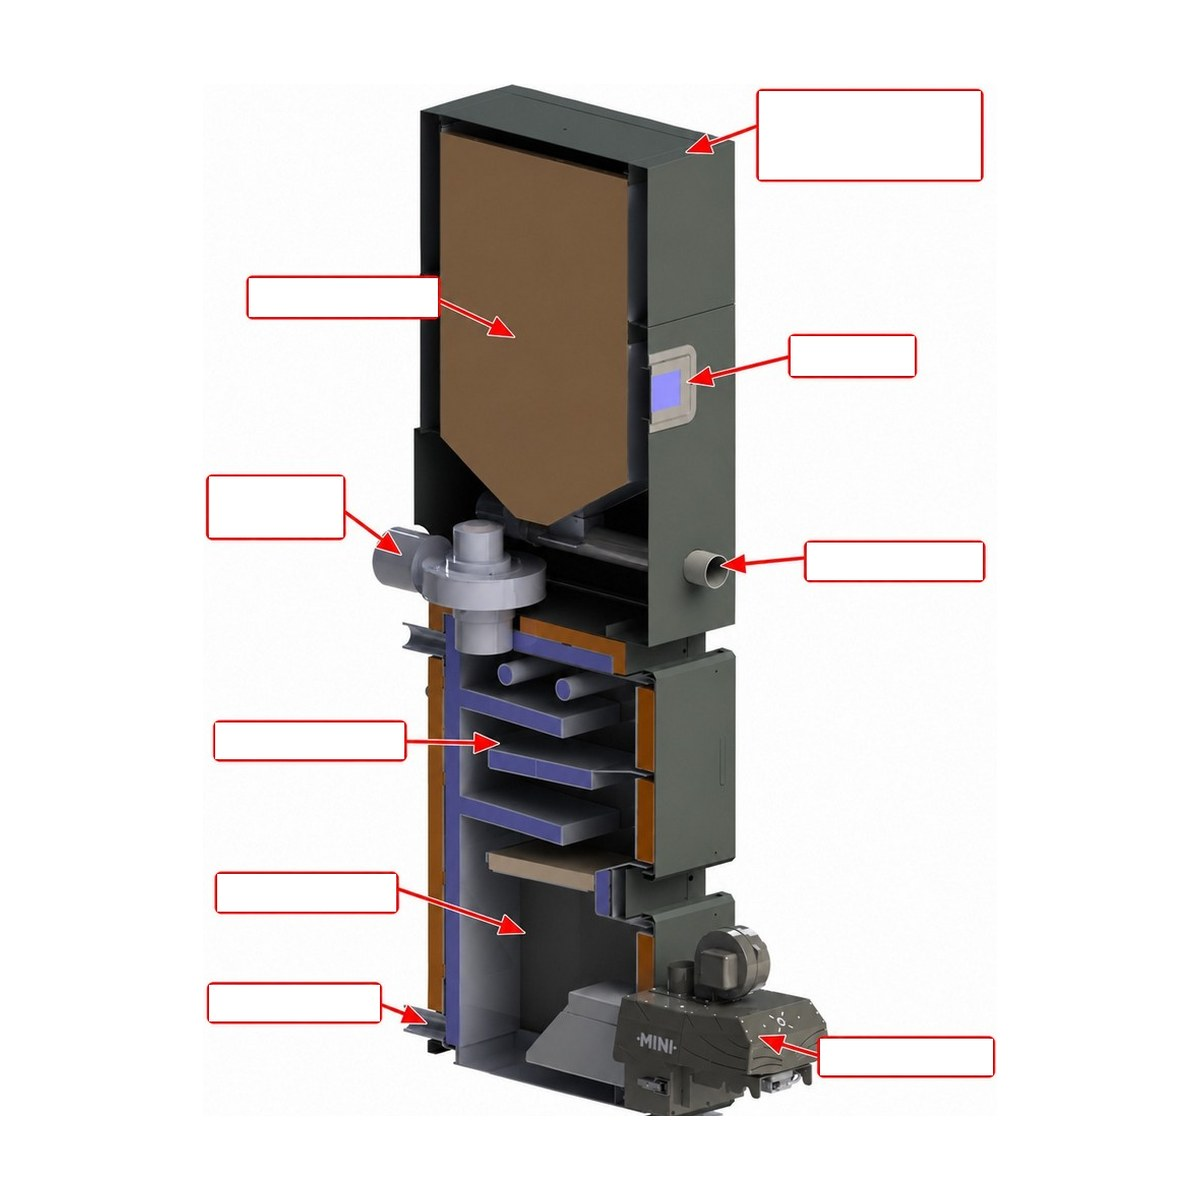
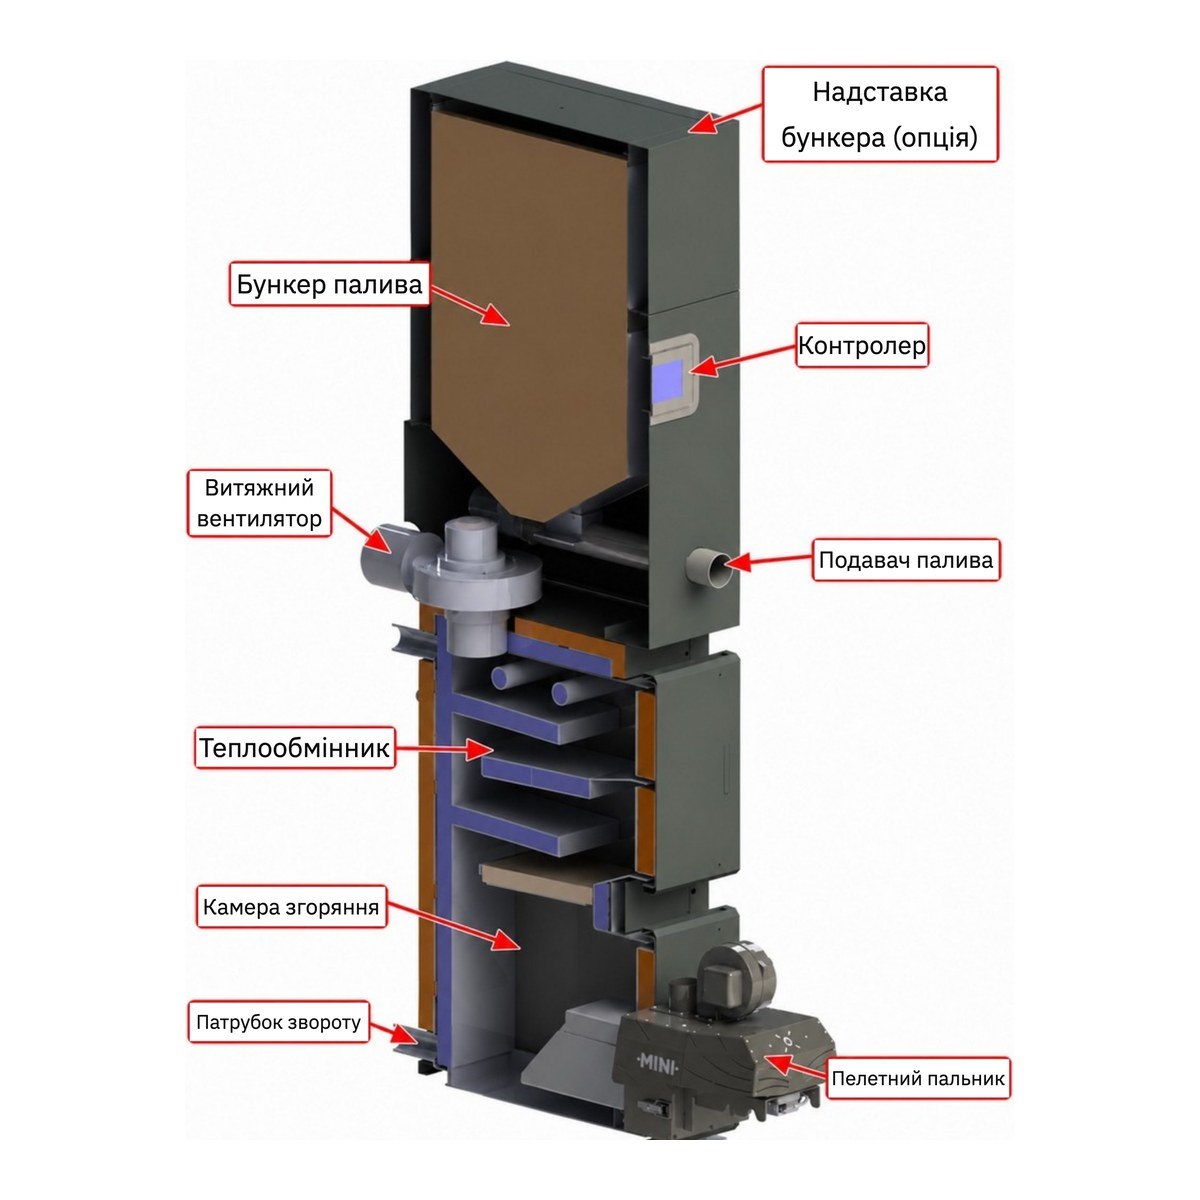
Розріз котла в галереї: підписи виносок повернуто
У конвеєрі інструкції растри в src/assets лежать із ВИБІЛЕНИМИ рамками —
підписи друкуються поверх уже в src/fig/*.html. У галерею картки я взяв растр,
тож на сайті рисунок стояв із порожніми квадратиками, хоча в самій інструкції
він правильний (перевірив стор. 17). Перезняв із src/fig у шрифті інструкції.

Інші два рисунки галереї (панель керування, комплект поставки) мають номерні
підписи прямо в растрі — вони не постраждали.

Claude-Session: https://claude.ai/code/session_01CFkCKbFECgnEVRLjVYvqyh

Changed region(s): [[0.1542, 0.0308, 0.8633, 0.9558]]

diff --git a/CHANGELOG.md b/CHANGELOG.md
@@ -39,6 +39,14 @@
 - Додано розділ «Пелетні котли» в `SECTIONS`/`section_for`/`SECTION_IMAGE` — інакше
   `product_type` у фіді поїхав би як «Додаткове обладнання».
 
+### 🖼 Розріз котла в галереї — був із порожніми виносками
+
+`figures.py` у конвеєрі інструкції вибілює нутро рамок, а підписи друкує поверх
+уже в `src/fig/*.html`. Я взяв у галерею растр із `src/assets/` — і на сайті
+рисунок стояв із **порожніми квадратиками**, тоді як в інструкції той самий
+рисунок правильний. Перезняв картинку з `src/fig/budova-rozriz.html` (headless
+Chrome + шрифт інструкції) — усі дев'ять підписів на місці.
+
 ### 🔗 Перелінковка котла з рештою каталогу
 
 - В описі котла з'явився розділ **«Що потрібно для обв'язки»** — вісім посилань,
